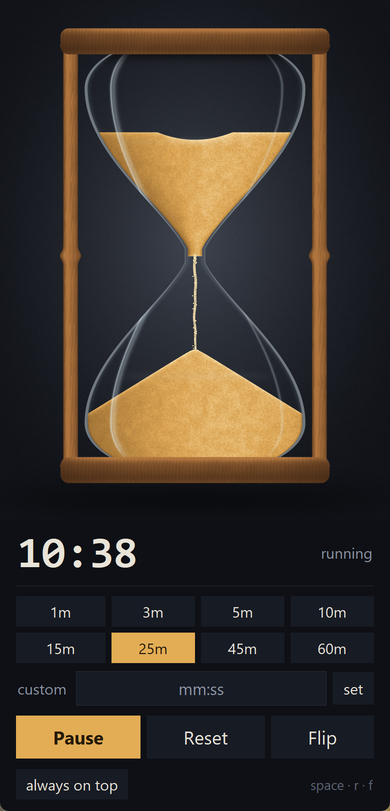
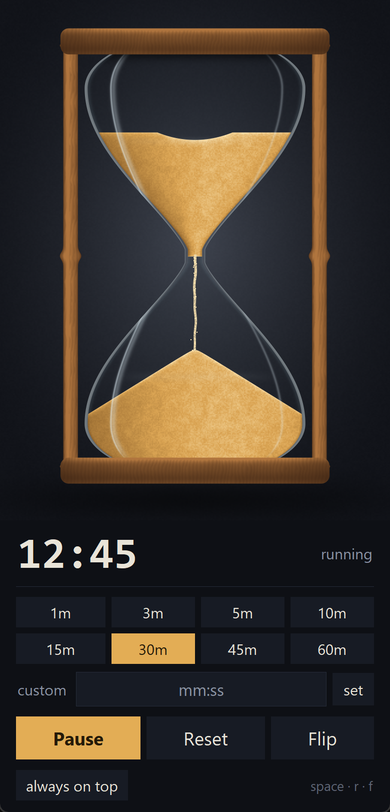
Update: fix the problem for multiple instances opened in system

diff --git a/hourglass_timer.py b/hourglass_timer.py
@@ -44,7 +44,7 @@ SAND = "#e3ad55"
 SAND_HI = "#f6cf8a"
 
 PRESETS = [("1", 60), ("3", 180), ("5", 300), ("10", 600),
-           ("15", 900), ("25", 1500), ("45", 2700), ("60", 3600)]
+           ("15", 900), ("30", 1800), ("45", 2700), ("60", 3600)]
 
 ICON_PATH = os.path.join(os.path.dirname(os.path.abspath(__file__)), "hourglass.ico")
 
@@ -187,6 +187,9 @@ def show_window(root):
 WM_TRAY = 0x0400 + 20                   # WM_APP + 20: our own tray callback
 TRAY_SHOW, TRAY_EXIT = 1, 2             # the two menu commands
 TRAY_MENU = 3                           # internal: put the menu up
+TRAY_CLASS = "HourglassTimerTray_"      # plus the process id: one per copy
+# the name a running copy holds so a second launch can tell it is there
+MUTEX_NAME = r"Local\HourglassTimer.SingleInstance"
 _tray_serial = 0
 
 
@@ -276,7 +279,7 @@ class TrayIcon:
         # the callback has to outlive the window, so it is kept on the instance
         self._proc = WNDPROC(self._wndproc)
         _tray_serial += 1
-        self._class = "HourglassTimerTray_%d_%d" % (os.getpid(), _tray_serial)
+        self._class = TRAY_CLASS + "%d_%d" % (os.getpid(), _tray_serial)
         hinst = kernel32.GetModuleHandleW(None)
         wc = WNDCLASS()
         wc.lpfnWndProc = self._proc
@@ -403,6 +406,92 @@ def make_tray(title, icon_path, on_show, on_exit):
         return TrayIcon(title, icon_path, on_show, on_exit)
     except Exception:
         return None
+
+
+_instance_lock = None                   # holding the handle is what holds the claim
+
+
+def claim_single_instance():
+    """Take the name that marks this app as running; False if it is taken.
+
+    Windows keeps a named mutex alive for exactly as long as some process holds
+    a handle to it, so the claim is dropped when we exit, however we exit. The
+    name sits in the session namespace, so another signed-in user still gets a
+    copy of their own. Where the call cannot be made at all the answer is yes:
+    refusing to start would be far worse than starting twice.
+    """
+    global _instance_lock
+    try:
+        import ctypes
+        from ctypes import wintypes
+        kernel32 = ctypes.WinDLL("kernel32", use_last_error=True)
+        kernel32.CreateMutexW.restype = wintypes.HANDLE
+        kernel32.CreateMutexW.argtypes = [wintypes.LPVOID, wintypes.BOOL,
+                                          wintypes.LPCWSTR]
+        kernel32.CloseHandle.argtypes = [wintypes.HANDLE]
+        handle = kernel32.CreateMutexW(None, False, MUTEX_NAME)
+        if not handle:
+            return True
+        if ctypes.get_last_error() == 183:          # ERROR_ALREADY_EXISTS
+            kernel32.CloseHandle(handle)
+            return False
+        _instance_lock = handle         # Windows drops it when this process ends
+        return True
+    except Exception:
+        return True
+
+
+def running_instance():
+    """The hidden tray window of a copy already running, or None.
+
+    Every copy owns one, and its class name carries the process id, which is
+    what tells somebody else's window apart from our own.
+    """
+    try:
+        import ctypes
+        from ctypes import wintypes
+        user32 = ctypes.windll.user32
+    except Exception:
+        return None
+
+    mine = os.getpid()
+    found = []
+
+    def visit(hwnd, _lparam):
+        name = ctypes.create_unicode_buffer(64)
+        user32.GetClassNameW(hwnd, name, 64)
+        if name.value.startswith(TRAY_CLASS):
+            pid = wintypes.DWORD()
+            user32.GetWindowThreadProcessId(hwnd, ctypes.byref(pid))
+            if pid.value != mine:
+                found.append(hwnd)
+                return False            # one is all we are after
+        return True
+
+    try:
+        proc = ctypes.WINFUNCTYPE(wintypes.BOOL, wintypes.HWND, wintypes.LPARAM)
+        user32.EnumWindows(proc(visit), 0)
+    except Exception:
+        return None
+    return found[0] if found else None
+
+
+def wake_running_instance():
+    """Put the copy that is already running in front, if it can be found."""
+    hwnd = running_instance()
+    if not hwnd:
+        return False
+    try:
+        import ctypes
+        from ctypes import wintypes
+        user32 = ctypes.windll.user32
+        user32.PostMessageW.argtypes = [wintypes.HWND, wintypes.UINT,
+                                        wintypes.WPARAM, wintypes.LPARAM]
+        # the very message the shell sends when its icon is clicked, so the
+        # other copy comes back through the path it already uses
+        return bool(user32.PostMessageW(hwnd, WM_TRAY, 1, 0x0202))
+    except Exception:
+        return False
 
 
 def png_bytes(arr):
@@ -906,6 +995,11 @@ class HourglassTimer:
 
 
 def main():
+    # One copy at a time: a second launch hands the running one the foreground,
+    # the way a click on its tray icon would, and stops there.
+    if not claim_single_instance():
+        wake_running_instance()
+        return 0
     app = HourglassTimer()
     app.run()
     return 0

diff --git a/README.md b/README.md
@@ -94,10 +94,20 @@ bring the window back, or right-click it for **Show** and **Exit** — **Exit** 
 what actually ends the app. A timer that runs out while the window is hidden
 raises it again by itself, alarm and all.
 
+Only one copy runs at a time. Launching the app again — a double-click on the
+desktop shortcut while it is already up — does not start a second timer: the
+copy already running is brought to the front instead, out of the tray if that is
+where it was, and the new one exits without ever showing a window. The claim is a
+named mutex held by the running process, so it is released whenever that process
+ends, crash or kill included; there is no lock file to go stale.
+
 There is no extra package behind this: a hidden window collects what the shell
 sends and the timer's own frame loop reads it, so nothing runs on a second
-thread. Elsewhere than Windows there is no notification area to hide in, and the
-X button closes the app as usual.
+thread. That window is also how a second launch finds the copy already running,
+so in the unlikely event the tray icon cannot be registered at all, a second
+launch still refuses to start a rival but cannot raise the first window either.
+Elsewhere than Windows there is no notification area to hide in, and the X button
+closes the app as usual.
 
 ## Requirements
 
